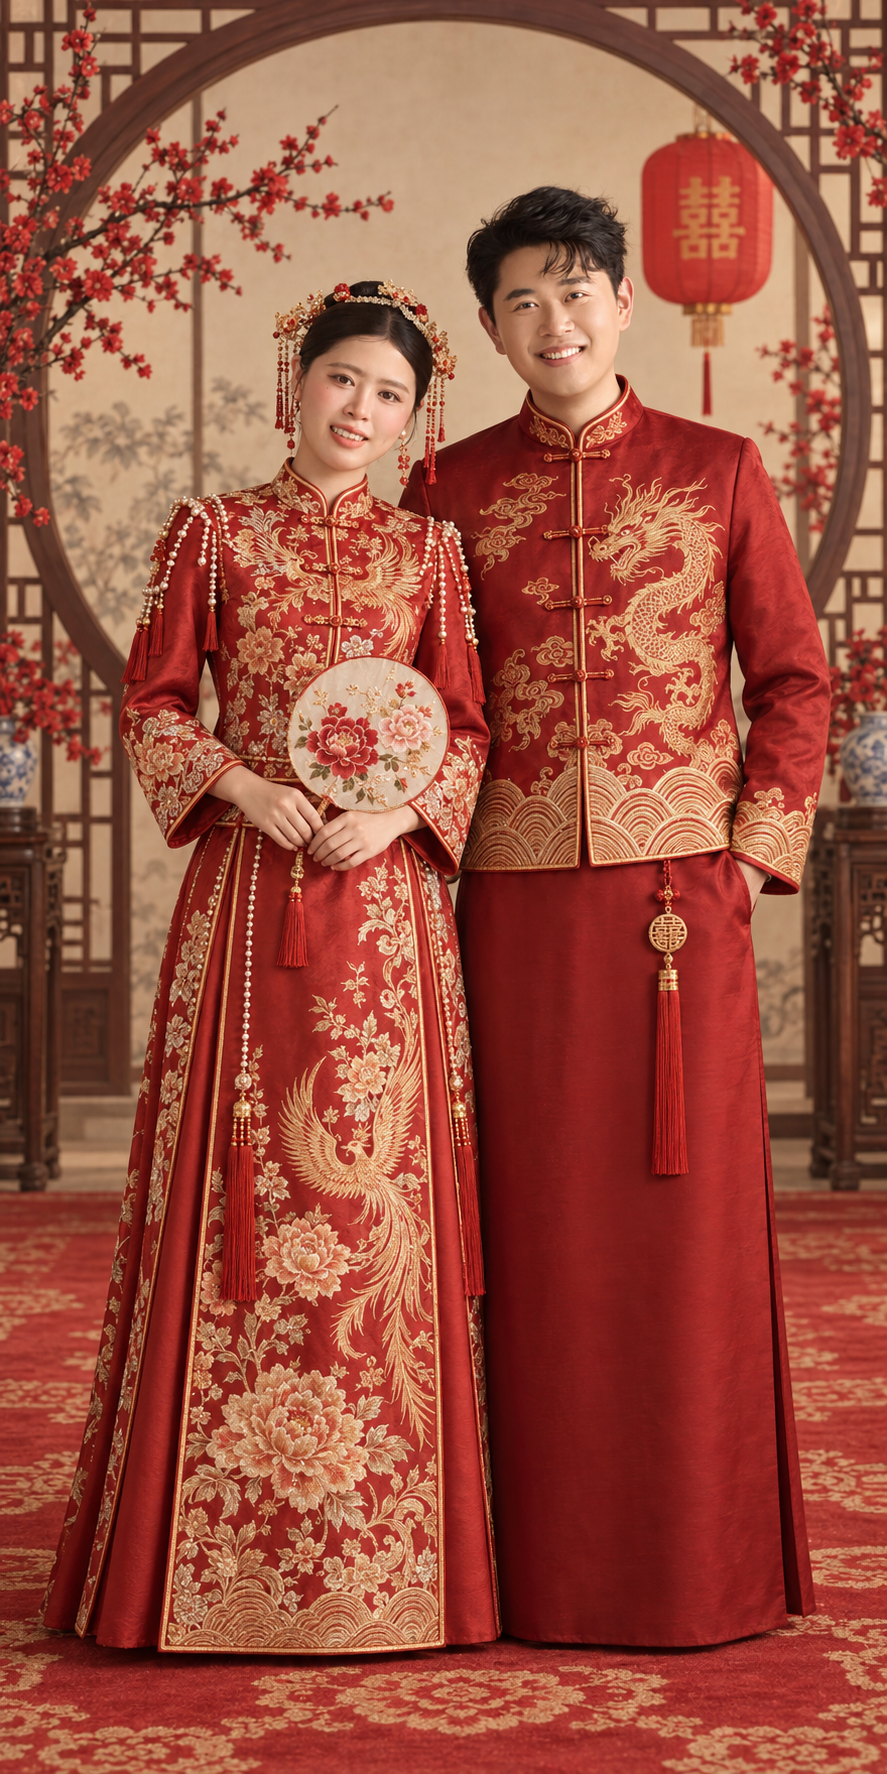
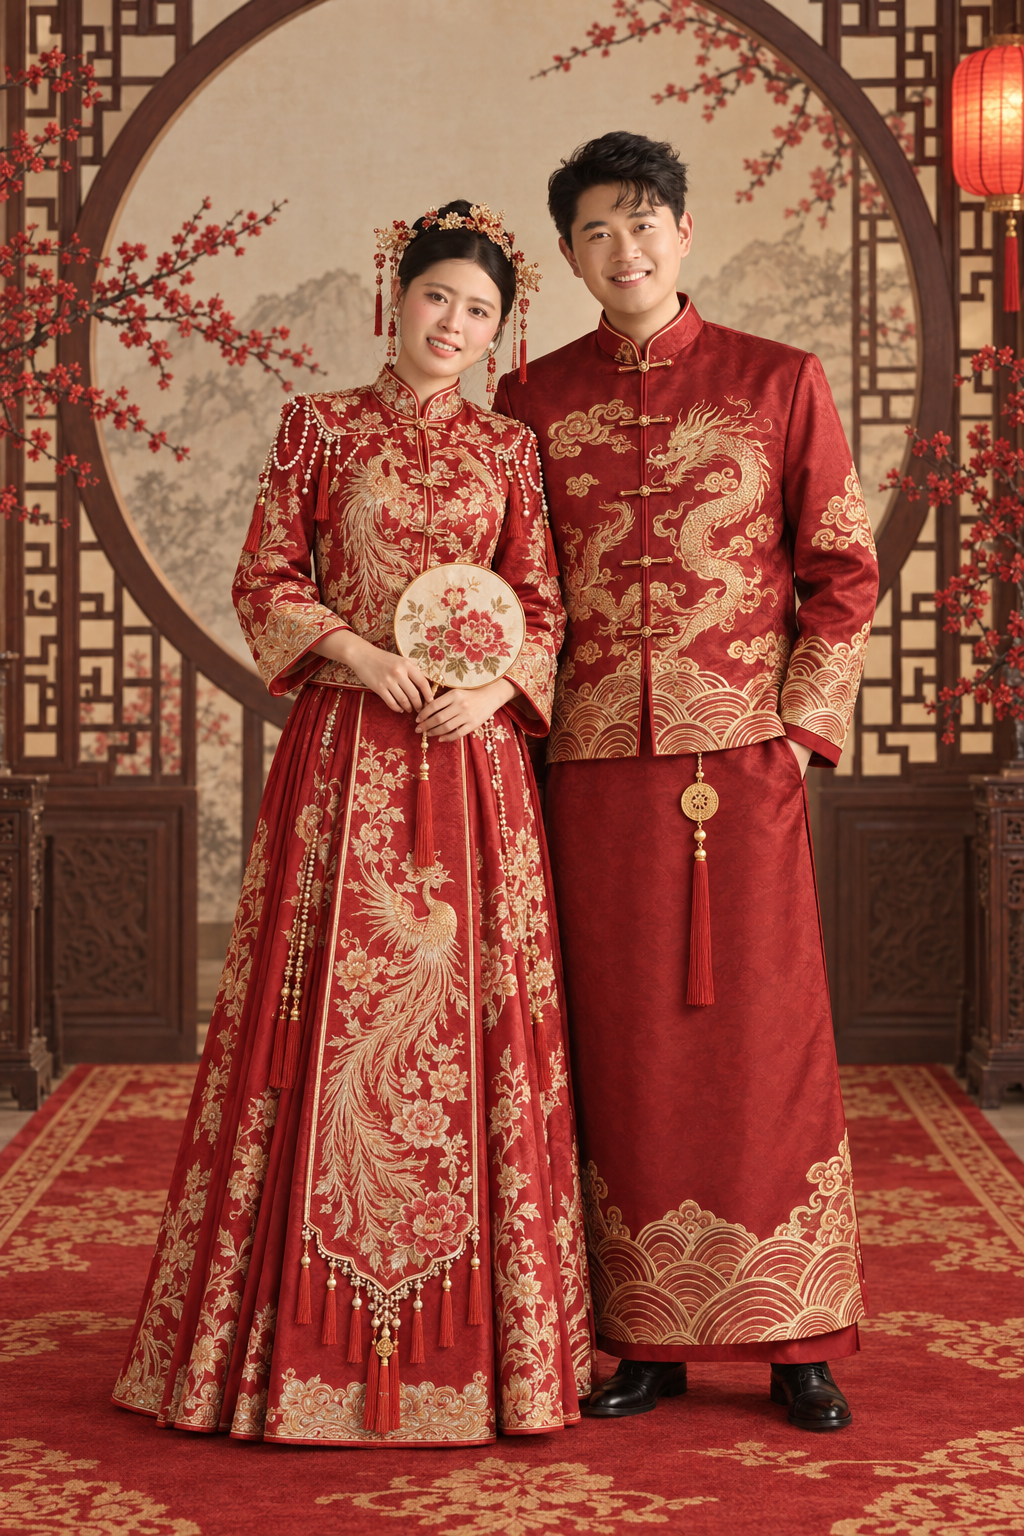
fix(chinese): 换回红毯黑鞋版迎宾照
使用用户指定的红毯黑鞋原稿，重新导出无损页面图和分享缩略图。
更新源图尺寸、生成记录、分享内容版本和图片契约检查，保留原有页面样式及布局。

验证：npm run build、11项图片与中式主题检查通过；页面样式与1060bbd一致。

diff --git a/src/config.js b/src/config.js
@@ -24,7 +24,7 @@ export const WEDDING_CONFIG = {
     siteUrl: 'https://wedding.jaryn.com.cn',
     description: '良辰已定，佳期将至。诚邀您见证我们的婚礼，与我们共享这一份喜悦。',
     image: '/share/wedding-portrait.jpg?v=original-faces',
-    chineseImage: '/share/chinese-wedding-portrait.jpg?v=5e4d6719c0a36412',
+    chineseImage: '/share/chinese-wedding-portrait.jpg?v=0b267ab05685a487',
     imageWidth: 600,
     imageHeight: 600,
     wechatSignatureEndpoint: '', // 配置同站签名接口后启用微信自定义分享；密钥保存在服务端。

diff --git a/design/implementation-notes.md b/design/implementation-notes.md
@@ -34,7 +34,7 @@
 
 素材处理脚本使用 Sharp。默认主题运行 `node design/prepare-welcome-reference.mjs`，再运行 `node design/prepare-share-image.mjs` 更新分享缩略图。默认主题的原照合成使用 `design/portrait-composite.mjs`。独立工具环境可通过 `SHARP_MODULE_PATH` 指定模块路径。
 
-中式版选定成图为 `design/chinese/portrait-source.png`，原生尺寸 887 × 1774。图像工具的输入为婚纱原照、原照片段与无五官的比例示意图；参考角色和提示词入口见同目录 `image-prompts.json`。`node design/prepare-chinese-portrait.mjs` 从选定成图导出无损迎宾图、600 × 600 分享缩略图及来源哈希，不执行面部剪贴、重绘、调色或画面拉伸。`portrait-layout.json` 只保存源图路径、画布与分享裁切。脚本打印分享图哈希前 16 位，更新 `src/config.js` 中 `share.chineseImage` 的 `v` 参数后运行验证。
+中式版选定成图为 `design/chinese/portrait-source.png`，使用红毯黑鞋版，原生尺寸 1024 × 1536。图像工具的输入为婚纱原照与原照头部细节；参考角色和提示词入口见同目录 `image-prompts.json`。`node design/prepare-chinese-portrait.mjs` 从选定成图导出无损迎宾图、600 × 600 分享缩略图及来源哈希，不执行面部剪贴、重绘、调色或画面拉伸。`portrait-layout.json` 只保存源图路径、画布与分享裁切。脚本打印分享图哈希前 16 位，更新 `src/config.js` 中 `share.chineseImage` 的 `v` 参数后运行验证。
 
 中式迎宾页更换图片素材，保留原有照片缩放、底部渐变、文字位置和入场动画。试制图和旧合成资料保留在 `.temp/archive/`，不进入 Git 或发布资源。
 

diff --git a/design/chinese/MOTION_SPEC.md b/design/chinese/MOTION_SPEC.md
@@ -10,6 +10,6 @@ URL 使用 `theme=chinese`；无参数、未知值或重复值沿用法式版。
 
 页面切换沿用 840ms 连续叠化；文字在 140ms 后按阅读顺序展开。中式人物图层使用 1400ms 的不透明度与 1.025→1 等比缩放，印章使用 800ms 的落印效果。花瓣沿用按时间计算的轨迹。减少动态效果时显示最终静态画面，停止装饰动画。
 
-迎宾照使用用户选定的 `portrait-source.png`。内置图像工具从婚纱原照、原照头部细节与无五官的比例示意图生成全身照片，优先级为人脸、身材比例、衣服、背景。生成参考与提示词入口见 `image-prompts.json`。正式肖像由源图无损导出，不执行面部剪贴或重绘，输出和分享图记录见 `portrait-provenance.json`。
+迎宾照使用用户选定的红毯黑鞋版 `portrait-source.png`。内置图像工具从婚纱原照与原照头部细节生成全身照片，优先级为人脸、身材比例、衣服、背景。生成参考与提示词入口见 `image-prompts.json`。正式肖像由源图无损导出，不执行面部剪贴或重绘，输出和分享图记录见 `portrait-provenance.json`。
 
 验收覆盖 320×568、390×844、430×932 与桌面预览；检查当前主题首帧、迎宾图片加载、页内内容、前后翻页、动态与静态画面、弹窗、日历返回参数、分享参数及旧主题回归。正式 WebP 与选定源图的全画面像素须一致。

diff --git a/design/chinese/README.md b/design/chinese/README.md
@@ -1,8 +1,8 @@
 # 中式迎宾照源文件
 
-`portrait-source.png` 是用户选定的生成成图，原生尺寸 887 × 1774。正式页面使用 `public/assets/chinese/portrait.webp`，分享图片使用 `public/share/chinese-wedding-portrait.jpg`。
+`portrait-source.png` 是用户选定的红毯黑鞋版生成成图，原生尺寸 1024 × 1536。正式页面使用 `public/assets/chinese/portrait.webp`，分享图片使用 `public/share/chinese-wedding-portrait.jpg`。
 
-`image-prompts.json` 的 `chinese-portrait` 项记录图像工具、输入角色和提示词入口。生成使用 `design/迎宾照.jpg`、`portrait-original-detail.png` 和无五官的 `portrait-proportion-guide.png`；比例图的矢量源文件为 `portrait-proportion-guide.svg`。参考图只参与生成，不在导出时拼贴到照片上。
+`image-prompts.json` 的 `chinese-portrait` 项记录图像工具、输入角色和提示词入口。本版生成使用 `design/迎宾照.jpg` 和 `portrait-original-detail.png`。参考图只参与生成，不在导出时拼贴到照片上。`portrait-proportion-guide.png` 与其 SVG 源文件属于另一试制方案，本版未使用。
 
 运行以下命令从选定成图导出页面与分享资源，不会重新生图：
 
